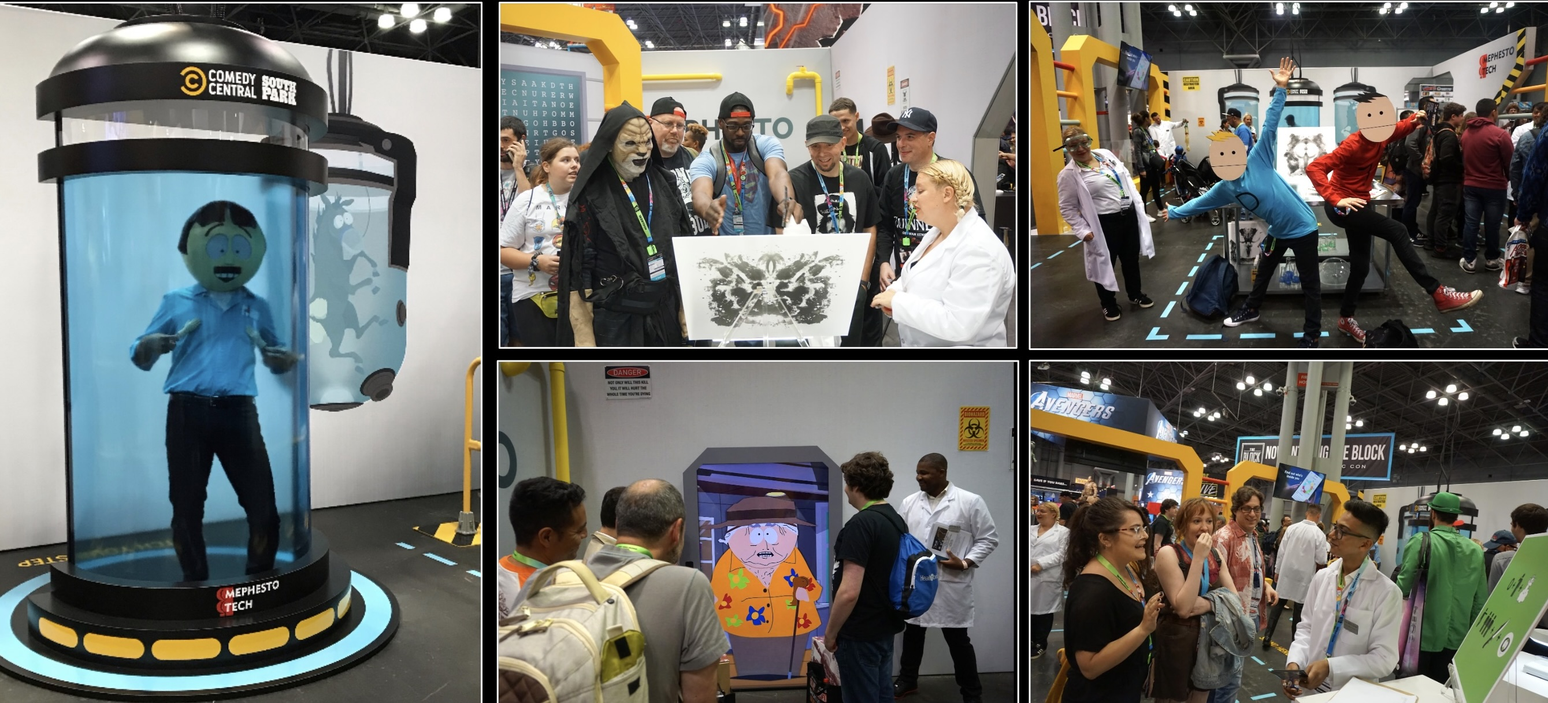
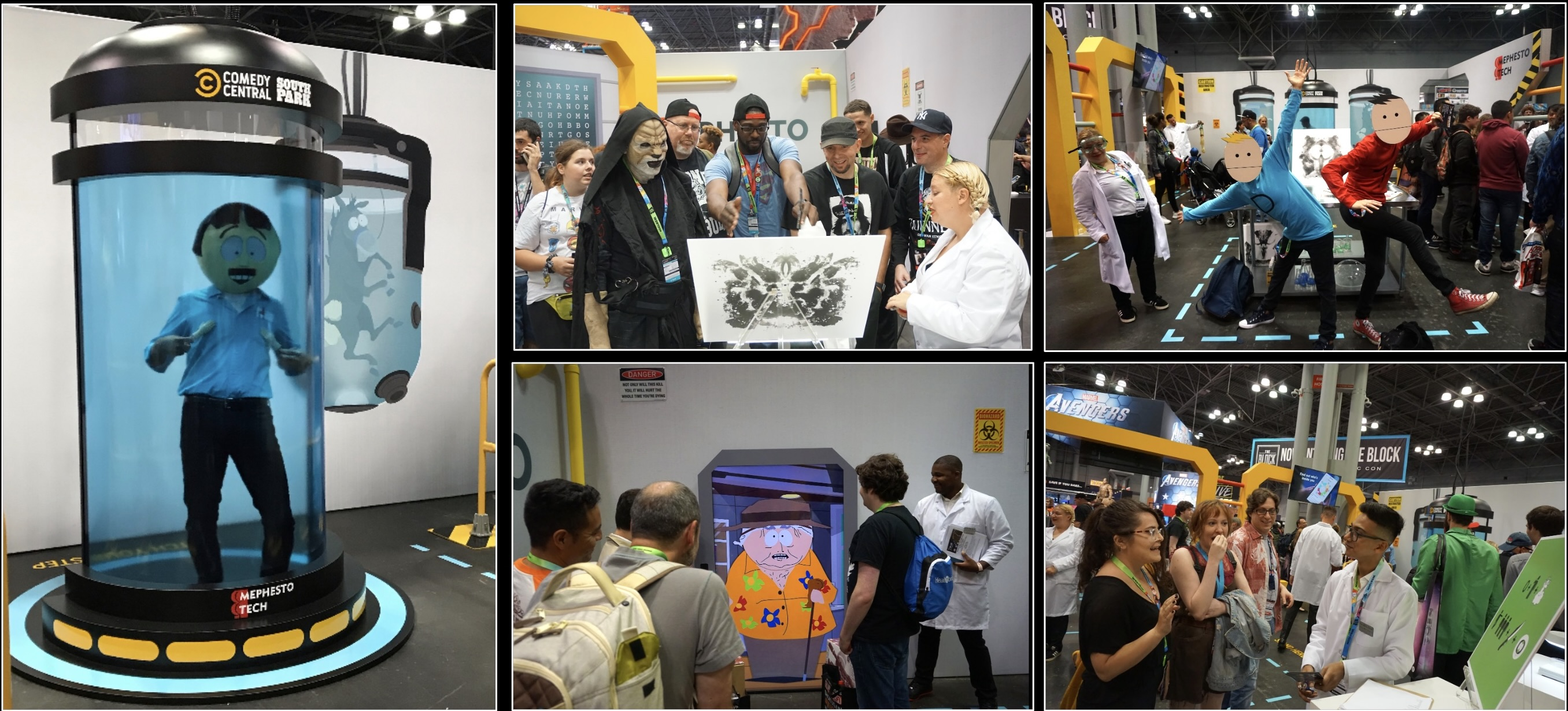
comic-con

diff --git a/utilities/projects.js b/utilities/projects.js
@@ -20,6 +20,7 @@ export const projects = [
       'South Park and 23andMe partnered up for their 23rd season, where I came up with the activation idea for a lab setting with a photo stasis chamber. The activation was a hit for both NYC and San Diego Comic-Con, with 224% increase of social media mentions from the previous activation!',
     projectBg: [
       'https://raw.githubusercontent.com/sydney-rd/event-website/main/public/assets/photos/CC/NYCC.jpeg',
+      'https://raw.githubusercontent.com/sydney-rd/event-website/main/public/assets/photos/CC/NYCC2.jpeg',
       'https://raw.githubusercontent.com/sydney-rd/event-website/main/public/assets/photos/CC/NYCC1.jpeg'
     ]
   },
@@ -52,7 +53,7 @@ export const projects = [
     category: 'VIACOM',
     color: 'blue',
     description:
-      'For Your Consideration Events are advertisments to Emmy voters. These events are outlandish, creative, and unique. Here are a few marketing tactics we used for Yellowstone, Broad City, Corporate, and Drunk History.',
+      'For Your Consideration Events are advertisments to Emmy voters. These events are outlandish, creative, and unique. Here are a few marketing tactics we used for Broad City, Corporate, Drunk History, and Yellowstone.',
     projectBg: [
       'https://raw.githubusercontent.com/sydney-rd/event-website/main/public/assets/photos/FYC/BC2.jpeg',
       'https://raw.githubusercontent.com/sydney-rd/event-website/main/public/assets/photos/FYC/BC1.jpeg',

diff --git a/components/projectmodal.js b/components/projectmodal.js
@@ -37,7 +37,7 @@ const ProjectModal = ({ isOpen, onClose, project }) => {
     },
     md: {
       titleFontSize: '7rem',
-      picHeight: '57vh',
+      picHeight: '58vh',
       picWidth: '58vw',
       contentFontSize: '1rem',
       descriptionWidth: '40rem',
